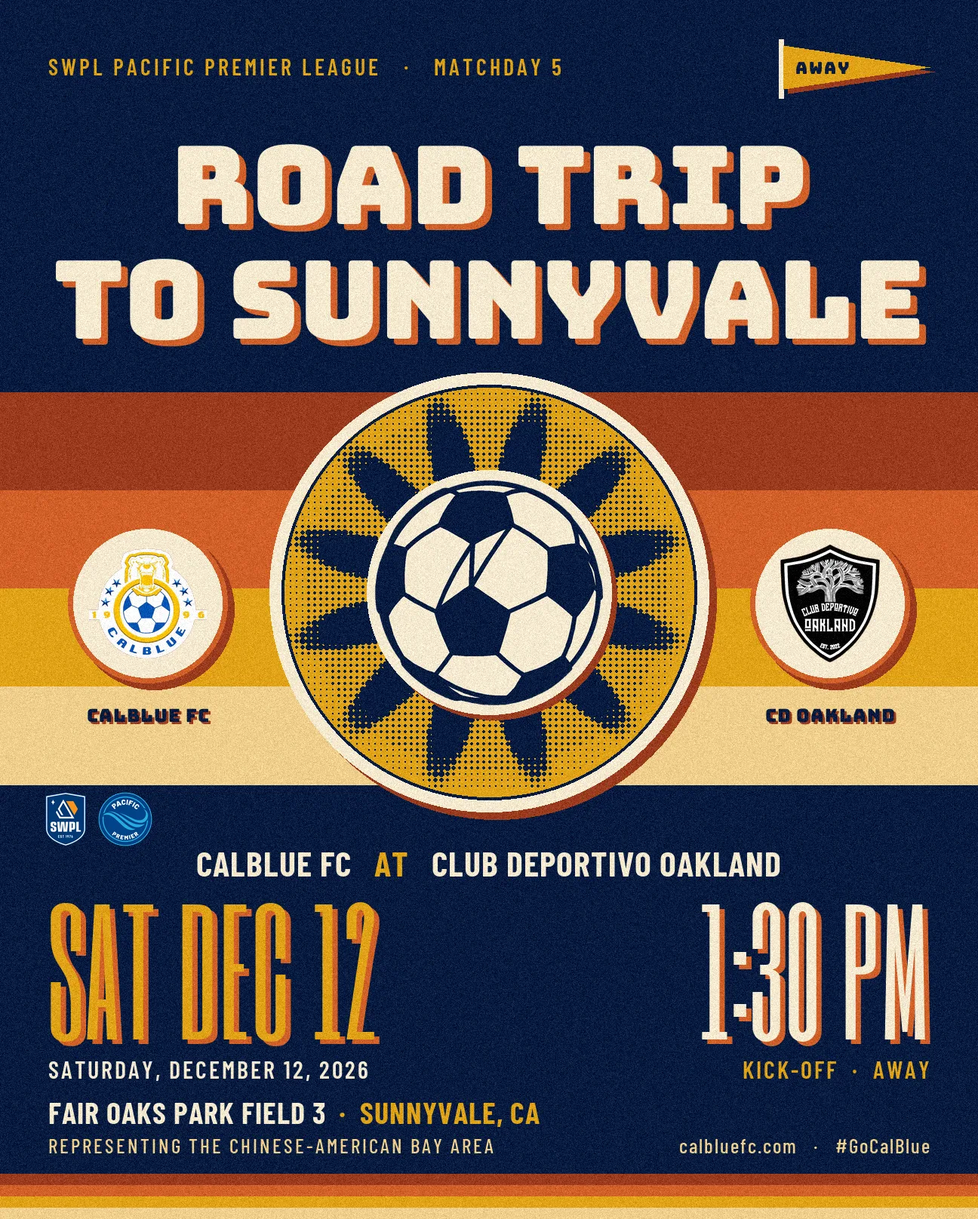
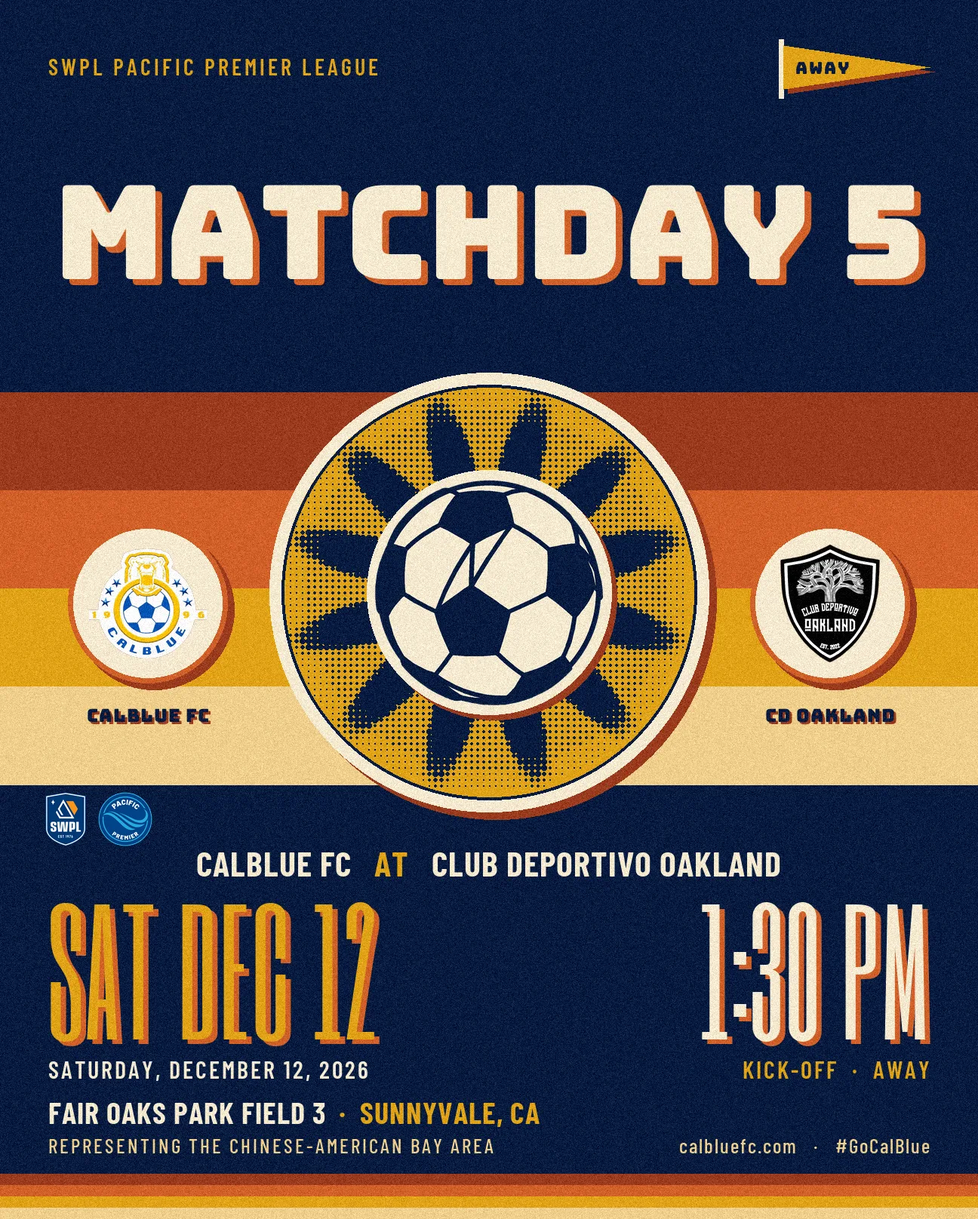
Use MATCHDAY 5 as the Dec 12 styled headline, correct the field on the Dec 6 posters
Dec 12 styled poster: the headline ROAD TRIP / TO SUNNYVALE is replaced by
MATCHDAY 5 in the same lettering, and the number leaves the top strip so it
is printed once. The game is at Fair Oaks Park, CalBlue's usual ground, so
"road trip" did not describe it. Nothing else on the poster changes.

Dec 6 posters: the league now lists Fallon Sports Park Field #2; both
posters printed Field 1. Both designs are re-rendered from the official
feed, keep MATCHDAY 9, and ship as -v2 files so cached copies are not
served. The old pair is removed and the manifest entry points at the new
files; its key and fixtureId are unchanged.

The archived Oct 17 entry now says the game moved to December 12, and the
reuse guard in tests/test_matchday_posters.py checks the 2026-12-12 entry
instead of a 2026-12-13 key that no longer exists.

data/news.json is rebuilt because its Dec 6 match-day card pointed at the
removed styled file.

Changed region(s): [[0.0617, 0.0928, 0.9568, 0.3094], [0.4321, 0.0309, 0.5864, 0.0619]]

diff --git a/tests/test_matchday_posters.py b/tests/test_matchday_posters.py
@@ -55,11 +55,11 @@ class MatchdayPosterManifestTests(unittest.TestCase):
         self.assertFalse(set(archived) & set(self.manifest["fixtures"]),
                          "Archived posters must not be selected as active fixture artwork")
         self.assertIn("2026-10-17-club-deportivo-oakland", archived)
-        replacement = self.manifest["fixtures"].get("2026-12-13-club-deportivo-oakland")
+        replacement = self.manifest["fixtures"].get("2026-12-12-club-deportivo-oakland")
         if replacement:
             old_images = {p["src"] for p in archived["2026-10-17-club-deportivo-oakland"]["posters"]}
             self.assertTrue(old_images.isdisjoint(p["src"] for p in replacement["posters"]),
-                            "December 13 artwork must not reuse the poster that prints October 17")
+                            "December 12 artwork must not reuse the poster that prints October 17")
 
 
 if __name__ == "__main__":
